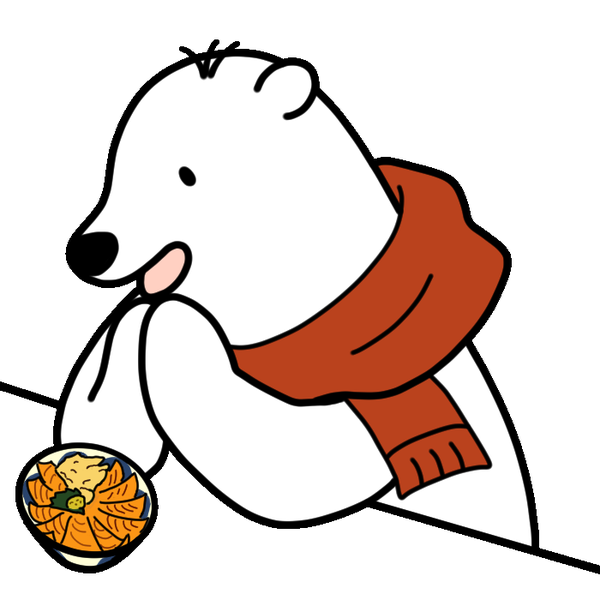
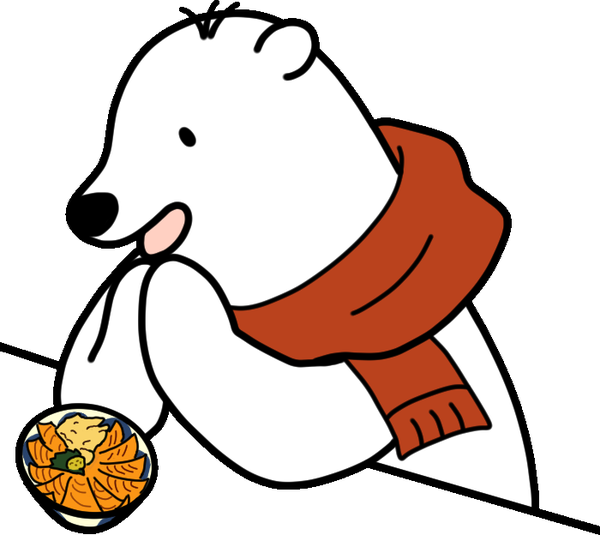
ホックマのイラストの背景を透明にし、クーポン名の右・地図のカードの右に置く
Claude-Session: https://claude.ai/code/session_017KCTHcQc4PGwP6kAHMEAib

diff --git a/components/CouponExplorer.tsx b/components/CouponExplorer.tsx
@@ -226,16 +226,16 @@ export default function CouponExplorer({ coupons, claims, loggedIn, isAdmin, onC
                 onClick={() => { select(s.id); setExpanded(true); }}
                 className="flex min-w-[78%] sm:min-w-0 sm:w-auto sm:max-w-sm shrink-0 items-center gap-3 rounded-2xl bg-[#BA421D] p-3 pr-4 text-left text-white focus-visible:outline-2 focus-visible:outline-offset-2 focus-visible:outline-[#F2C14E]"
               >
-                {/* ホックマのイラスト(手描き) */}
-                {s.illustration && (
-                  // eslint-disable-next-line @next/next/no-img-element
-                  <img src={s.illustration} alt="" className="h-[84px] w-[84px] shrink-0 rounded-xl bg-white object-cover" />
-                )}
-                <span className="min-w-0">
+                <span className="min-w-0 flex-1 pl-1">
                   <span className="inline-block rounded-full bg-[#F2C14E] px-2.5 py-0.5 text-xs font-extrabold text-[#1B243A]">配布中</span>
                   <span className="mt-1 block text-lg font-extrabold leading-tight">{c?.title ?? s.name}</span>
                   <span className="mt-1.5 block text-xs text-white/85">押すとクーポンとお店の情報を見られます</span>
                 </span>
+                {/* ホックマのイラスト(手描き。背景は透明) */}
+                {s.illustration && (
+                  // eslint-disable-next-line @next/next/no-img-element
+                  <img src={s.illustration} alt="" className="h-20 w-auto shrink-0 self-start" />
+                )}
               </button>
             );
           })}

diff --git a/app/coupons/[id]/page.tsx b/app/coupons/[id]/page.tsx
@@ -279,15 +279,13 @@ export default function CouponPage() {
           </button>
         </div>
 
-        {/* いちばん上: ホックマのイラスト(後藤の手描き)。お店の写真は出さない */}
-        {shop?.illustration && (
-          <div className="flex justify-center bg-white">
-            {/* eslint-disable-next-line @next/next/no-img-element */}
-            <img src={shop.illustration} alt="炙りサーモン丼を見つめるホックマ" className="block h-56 w-auto" />
-          </div>
-        )}
         {/* クーポン名と使える時間(朱色の地) */}
-        <div className="bg-[#BA421D] px-6 pb-7 pt-5 text-white">
+        <div className="relative bg-[#BA421D] px-6 pb-7 pt-5 text-white">
+          {/* ホックマのイラスト(後藤の手描き。背景は透明): クーポン名の右に置く */}
+          {shop?.illustration && (
+            // eslint-disable-next-line @next/next/no-img-element
+            <img src={shop.illustration} alt="" className="pointer-events-none absolute right-2 top-2 h-[92px] w-auto" />
+          )}
           <div className="mb-3 flex flex-wrap items-center gap-2">
             <span className="text-[10px] font-bold bg-white/20 rounded px-1.5 py-0.5">PR・提携</span>
             {!coupon.active && <span className="text-[10px] font-bold bg-[#F2C14E] text-[#1B243A] rounded px-1.5 py-0.5">非公開・運営だけに表示中</span>}

diff --git a/components/CouponParts.tsx b/components/CouponParts.tsx
@@ -209,7 +209,7 @@ export function CouponHeadline({
         {/* ホックマのイラスト(手描き) */}
         {illustration && (
           // eslint-disable-next-line @next/next/no-img-element
-          <img src={illustration} alt="" className="h-24 w-24 shrink-0 rounded-xl bg-white object-cover" />
+          <img src={illustration} alt="" className="h-24 w-auto shrink-0" />
         )}
       </span>
     );
